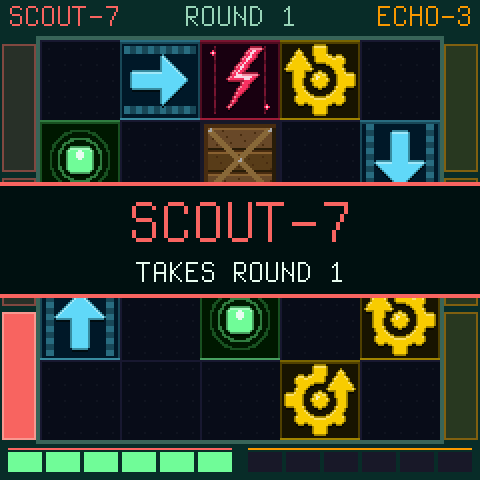
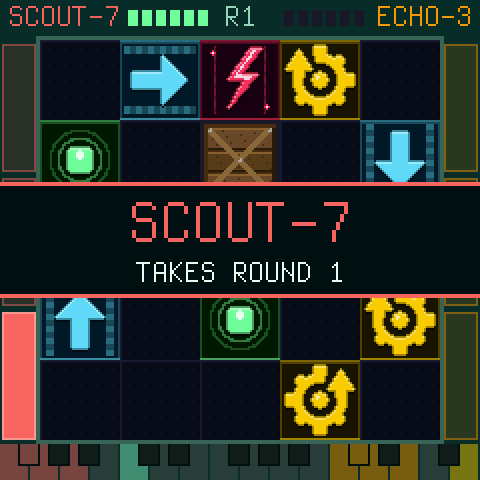
Battle: the strike a white key on, the keys lit on the screen (D42)
Scout-7 strikes on C4 and Echo-3 on G5, a white key free between them and
A3 / E5. The little keyboard at the foot of the fight shows both players'
keys, dim in their colours and lit while held (the FM-1's keys have no
lights); the lives sit in the header beside the names.

Changed region(s): [[0.0, 0.9062, 1.0, 1.0], [0.25, 0.0, 0.5625, 0.0625], [0.5938, 0.0, 0.625, 0.0625]]

diff --git a/firmware/src/rs_battle_screen.c b/firmware/src/rs_battle_screen.c
@@ -3,7 +3,7 @@
  * the countdown, a round won, and the match: the winner, big. Included after rs_screen.c and rs_splash.c. */
 
 static const char *const BT_NAME[2] = {"SCOUT-7", "ECHO-3"};
-static const uint8_t BT_KEY[2][5] = {{0, 1, 2, 4, 6}, {19, 20, 21, 23, 24}};   /* the keys: left, up, down, right, strike */
+static const uint8_t BT_KEY[2][5] = {{0, 1, 2, 4, 7}, {19, 20, 21, 23, 26}};   /* left, up, down, right; strike a white key on */
 static const uint8_t BT_DIR[4] = {RS_W, RS_N, RS_S, RS_E};
 
 static void bt_banner(const char *big, const char *small, uint16_t c)   /* a band over the arena, its words in it */
@@ -29,13 +29,22 @@ static void bt_score(int b, uint32_t wins, uint32_t to_win)   /* a robot's score
     }
 }
 
-static void bt_keymap(int32_t y)                 /* the two players' keys on the little keyboard */
+static void bt_keymap(int32_t y, uint32_t held)  /* the two players' keys on the little keyboard, lit as they are held */
 {
     uint16_t col[27] = {0};
     for (int p = 0; p < 2; p++)
-        for (int k = 0; k < 5; k++)
-            col[BT_KEY[p][k]] = k == 4 ? C_WHITE : p ? C_BOT_B : C_BOT_A;
+        for (int k = 0; k < 5; k++) {
+            uint16_t c = k == 4 ? (p ? C_WARN : C_ACCENT) : p ? C_BOT_B : C_BOT_A;
+            col[BT_KEY[p][k]] = held >> BT_KEY[p][k] & 1u ? mix565(C_WHITE, c, 100) : mix565(c, C_BG, 120);
+        }
     draw_keymap(y, col);
+}
+
+static void bt_life(int32_t x, int b, int32_t hp)   /* a robot's life in the header: six pips */
+{
+    uint16_t c = hp <= 2 ? C_DANGER : hp <= 4 ? C_WARN : C_PULSE;
+    for (int32_t k = 0; k < 6; k++) cv_rect(x + k * 7, 5, 5, 8, k < hp ? c : RGB(0x1a, 0x1a, 0x2e));
+    (void)b;
 }
 
 static void bt_winner(const struct rs_battle *t)
@@ -57,21 +66,26 @@ static void bt_winner(const struct rs_battle *t)
     screen_out();
 }
 
-static void draw_battle(const struct rs_view *v, const struct rs_fx *fx, uint32_t now_ms, uint8_t to_win, uint8_t arena)
+static void draw_battle(const struct rs_view *v, const struct rs_fx *fx, uint32_t now_ms, uint8_t to_win, uint8_t arena,
+                        uint32_t held)
 {
     const struct rs_battle *t = &v->battle;
     int beat = v->loop_len % 3 == 0 && v->loop_len % 4 != 0 ? 3 : 4, b, live = v->playing && t->phase != RS_BT_OFF;
     uint32_t goal = live ? t->to_win : to_win;
     if (live && t->phase == RS_BT_MATCH) { bt_winner(t); return; }
     cv_begin(240, 240, C_BG);
-    /* the header: the names, the round between; down the sides the score bars */
+    /* the header: the names and their lives, the round between; down the sides the score bars */
     cv_text(4, 1, &FONT_S, BT_NAME[0], C_BOT_A);
     cv_text(236 - text_w(&FONT_S, BT_NAME[1]), 1, &FONT_S, BT_NAME[1], C_BOT_B);
+    for (int r = 0; r < 2; r++) {
+        int32_t heat = v->bot[r].heat < 0 ? 0 : v->bot[r].heat > 6 ? 6 : v->bot[r].heat;
+        bt_life(r ? 236 - text_w(&FONT_S, BT_NAME[1]) - 46 : 64, r, live ? 6 - heat : 6);
+    }
     {
-        char r[12] = "ROUND 1";
-        r[6] = (char)('0' + (live ? t->round : 1) % 10u);
+        char r[4] = "R1";
+        r[1] = (char)('0' + (live ? t->round : 1) % 10u);
         int hot = live && t->phase == RS_BT_FIGHT && t->beats >= RS_BT_OVERHEAT;
-        const char *mid = hot ? "OVERHEAT" : live ? r : "VS";
+        const char *mid = hot ? "HOT" : live ? r : "VS";
         cv_text(120 - text_w(&FONT_S, mid) / 2, 1, &FONT_S, mid, hot ? C_DANGER : C_MUTED);
     }
     bt_score(0, live ? t->wins[0] : 0, goal), bt_score(1, live ? t->wins[1] : 0, goal);
@@ -106,14 +120,7 @@ static void draw_battle(const struct rs_view *v, const struct rs_fx *fx, uint32_
     }
     for (b = 0; b < 2; b++)
         if ((int32_t)(fx->boom_until[b] - now_ms) > 0) draw_explosion(BX + v->bot[b].x * CELL, BY + v->bot[b].y * CELL, b);
-    /* the foot: each robot's life (6, less its heat) */
-    for (b = 0; b < 2; b++) {
-        int32_t heat = v->bot[b].heat < 0 ? 0 : v->bot[b].heat > 6 ? 6 : v->bot[b].heat, hp = live ? 6 - heat : 6, x = b ? 124 : 4;
-        uint16_t c = hp <= 2 ? C_DANGER : hp <= 4 ? C_WARN : C_PULSE;
-        for (int32_t k = 0; k < 6; k++) cv_rect(x + k * 19, 226, 17, 10, k < hp ? c : RGB(0x1a, 0x1a, 0x2e));
-        if (b) cv_rect(x, 224, 112, 1, C_BOT_B);
-        else cv_rect(x, 224, 112, 1, C_BOT_A);
-    }
+    bt_keymap(222, held);                       /* the foot: the players' keys, lit as they are held */
     /* what is happening */
     if (!live) {                                /* stopped: how to play, the match's settings */
         static const char *const AR[RS_NARENAS] = {"SAME", "NEXT ONE", "RANDOM"};
@@ -126,15 +133,14 @@ static void draw_battle(const struct rs_view *v, const struct rs_fx *fx, uint32_
         cv_rect(10, 26, 220, 176, RGB(0x05, 0x10, 0x10));
         frame(10, 26, 220, 176, 1, C_MUTED);
         cv_text(120 - text_w(&FONT_L, "BATTLE") / 2, 30, &FONT_L, "BATTLE", C_WHITE);
-        cv_text(18, 66, &FONT_S, "SCOUT-7 F3 F#3 G3 A3", C_BOT_A), cv_text(18, 80, &FONT_S, "  STRIKE / PLAY B3", C_BOT_A);
-        cv_text(18, 96, &FONT_S, "ECHO-3  C5 C#5 D5 E5", C_BOT_B), cv_text(18, 110, &FONT_S, "  STRIKE / PLAY F5", C_BOT_B);
+        cv_text(18, 66, &FONT_S, "SCOUT-7 F3 F#3 G3 A3", C_BOT_A), cv_text(18, 80, &FONT_S, "  STRIKE / PLAY C4", C_ACCENT);
+        cv_text(18, 96, &FONT_S, "ECHO-3  C5 C#5 D5 E5", C_BOT_B), cv_text(18, 110, &FONT_S, "  STRIKE / PLAY G5", C_WARN);
         cv_rect(18, 126, 204, 1, mix565(C_MUTED, C_BG, 90));
         cv_text(18, 132, &FONT_S, "K2 ROUNDS TO WIN", C_MUTED), cv_text(222 - text_w(&FONT_S, ro), 132, &FONT_S, ro, C_WHITE);
         cv_text(18, 146, &FONT_S, "K3 ARENA", C_MUTED), cv_text(222 - text_w(&FONT_S, arena_name), 146, &FONT_S, arena_name, C_WHITE);
         cv_text(18, 160, &FONT_S, "K4 EACH ROUND", C_MUTED);
         cv_text(222 - text_w(&FONT_S, AR[arena % RS_NARENAS]), 160, &FONT_S, AR[arena % RS_NARENAS], C_WHITE);
         cv_text(120 - text_w(&FONT_S, "PLAY: FIGHT") / 2, 182, &FONT_S, "PLAY: FIGHT", C_ACCENT);
-        bt_keymap(204);
     } else if (t->phase == RS_BT_READY) {       /* the countdown: the round, then 4 3 2 1 */
         char r[12] = "ROUND 1", d[2] = "4";
         r[6] = (char)('0' + t->round % 10u), d[0] = (char)('0' + (t->count < 5 ? t->count : 4));

diff --git a/tests/roboseq/screens.c b/tests/roboseq/screens.c
@@ -97,24 +97,24 @@ int main(void)
     draw_mix(LEVEL, 6, 40), shot("mix");
     {                                           /* the battle mode (D42): how to play, the countdown, a strike, a round, the winner */
         rs_default(&g), g.engine = RS_ENGINE_BAND, view_ui(), v.battle = g.battle;
-        draw_battle(&v, &fx, 0, 3, RS_ARENA_NEXT), shot("battle");
+        draw_battle(&v, &fx, 0, 3, RS_ARENA_NEXT, 0), shot("battle");
         rs_start(&g), rs_battle_start(&g, 3, RS_ARENA_SAME);
         while (g.battle.count > 2) rs_tick(&g, &o);
         view_ui(), v.battle = g.battle;
-        draw_battle(&v, &fx, 0, 3, RS_ARENA_NEXT), shot("battle-countdown");
+        draw_battle(&v, &fx, 0, 3, RS_ARENA_NEXT, 0), shot("battle-countdown");
         while (g.battle.phase == RS_BT_READY) rs_tick(&g, &o);
         g.bot[0].x = 1, g.bot[0].y = 2, g.bot[0].dir = RS_E, g.bot[1].x = 2, g.bot[1].y = 2, g.bot[1].dir = RS_W, g.bot[1].heat = 2;
         rs_battle_keys(&g, 0, 0, 1, 0), rs_battle_keys(&g, 1, RS_N + 1, 0, 0);
         do rs_tick(&g, &o); while (!(o.move_tick && g.step % 4 == 0));
         view_ui(), v.battle = g.battle, fx.clash_until[1] = 100;
-        draw_battle(&v, &fx, 0, 3, RS_ARENA_NEXT), shot("battle-strike");
+        draw_battle(&v, &fx, 0, 3, RS_ARENA_NEXT, 1u << 7 | 1u << 20), shot("battle-strike");   /* (C4 and C#5 held) */
         memset(&fx, 0, sizeof fx);
         g.battle.phase = RS_BT_ROUND, g.battle.winner = 0, g.battle.wins[0] = 1, g.bot[1].dying = 1, g.bot[1].heat = 6;
         view_ui(), v.battle = g.battle;
-        draw_battle(&v, &fx, 0, 3, RS_ARENA_NEXT), shot("battle-round");
+        draw_battle(&v, &fx, 0, 3, RS_ARENA_NEXT, 0), shot("battle-round");
         g.battle.phase = RS_BT_MATCH, g.battle.winner = 1, g.battle.wins[0] = 1, g.battle.wins[1] = 3;
         view_ui(), v.battle = g.battle;
-        draw_battle(&v, &fx, 0, 3, RS_ARENA_NEXT), shot("battle-winner");
+        draw_battle(&v, &fx, 0, 3, RS_ARENA_NEXT, 0), shot("battle-winner");
     }
     return 0;
 }

diff --git a/firmware/src/roboseq.c b/firmware/src/roboseq.c
@@ -395,8 +395,8 @@ static void keys_init(void)
     }
 }
 
-/* ---- the battle mode (D42): two players on the keyboard, a cluster each at its ends, as WASD and F: Scout-7's
- * F3 F#3 G3 A3 (left, up, down, right) and B3 (strike), Echo-3's C5 C#5 D5 E5 and F5. A way held is a step on every
+/* ---- the battle mode (D42): two players on the keyboard, a cluster each at its ends, as WASD, a white key free, and
+ * the strike: Scout-7's F3 F#3 G3 A3 (left, up, down, right) and C4, Echo-3's C5 C#5 D5 E5 and G5. A way held is a step on every
  * beat (the last one pressed, of those held); the strike held or tapped strikes on the next beat with the other in
  * reach, and out of reach it plays the lead: a tone of the chord where the robot stands, on up the chord as it is
  * pressed again on one tile (rs_battle_lead_note), held as long as the key is. */
@@ -408,7 +408,9 @@ static uint16_t bt_bpm_was;
 
 static int battle_keys(uint32_t held, uint32_t down)
 {
-    int changed = 0;
+    static uint32_t was;
+    int changed = held != was;                          /* (any key down or up: the keyboard on the screen lights it) */
+    was = held;
     for (int p = 0; p < 2; p++) {
         uint8_t hold = 0;
         for (int k = 0; k < 4; k++)
@@ -787,7 +789,7 @@ static void app_main(void)
             else if (page == PAGE_FX) draw_mix(mix.level, mix_cursor, colour_amt);
             else if (page == PAGE_ENV) draw_editor(v, &game, env_cx, env_cy, (fm1_ms / 300u) & 1u, env_edited);
             else if (page == PAGE_BOARDS) draw_boards(&game, (fm1_ms / 300u) & 1u, env_edited);
-            else if (page == PAGE_BATTLE) draw_battle(v, &fx, fm1_ms, bt_to_win, bt_arena);
+            else if (page == PAGE_BATTLE) draw_battle(v, &fx, fm1_ms, bt_to_win, bt_arena, notes);
             else draw_board(v, &fx, &ui, fm1_ms);
             due = fx_due(&fx, fm1_ms);
         }

diff --git a/docs/roboseq/CONTROLS.md b/docs/roboseq/CONTROLS.md
@@ -68,13 +68,14 @@ as everywhere.
 
 ## BATTLE (GLO's white key 16, D42)
 
-Two players, a robot each, on the music's beat. The keyboard is theirs: no register, no steering, no lead on REC.
+Two players, a robot each, on the music's beat. The keyboard is theirs: no register, no steering, no lead on REC. The
+little keyboard at the foot of the screen shows their keys, each lit while it is held.
 
 | Control | Does |
 |---|---|
 | F3 F#3 G3 A3 | Scout-7: left, up, down, right. Held, a step that way on every beat (the last one pressed, of those held) |
-| B3 | Scout-7's fifth key: with Echo-3 in reach (a tile on the way it holds or faces, or two with the tile between open), it strikes on the next beat; out of reach it plays the lead now, a tone of the chord where Scout-7 stands, on up the chord when pressed again on one tile, held as long as the key |
-| C5 C#5 D5 E5 / F5 | the same for Echo-3 |
+| C4 | Scout-7's strike (a white key free between it and A3): with Echo-3 in reach (a tile on the way it holds or faces, or two with the tile between open), it strikes on the next beat; out of reach it plays the lead now, a tone of the chord where Scout-7 stands, on up the chord when pressed again on one tile, held as long as the key |
+| C5 C#5 D5 E5 / G5 | the same for Echo-3 (F5 free) |
 | PLAY | a match: the round, then 4 3 2 1 FIGHT on the beats; in a fight it stops (C1); on the winner, another match |
 | KNOB1 | the tempo (the battle starts at 112 BPM when it was slower; leaving brings the old back) |
 | KNOB2 | the rounds to win, 1 to 9 (before a match), a segment each in the score bars |

diff --git a/docs/roboseq/DECISIONS.md b/docs/roboseq/DECISIONS.md
@@ -756,3 +756,9 @@ it); rounds, then "<robot> wins" with the winning robot's picture. Along the way
 match on each of the six arenas. Every match ends: 24 rounds of 46 beats on average, 12 hits of 15 strikes, and no
 one hit two beats running.
 
+**D42, later the same day: the keys.** The product owner, on the screens: a white key free between WASD and the
+strike, and the keys lit on the keyboard. So Scout-7 strikes on C4 (B3 free) and Echo-3 on G5 (F5 free). The little
+keyboard is now at the foot of the fight too: each player's keys dim in its colour (the strike in the robot's
+accent), lit while held. The FM-1's keys have no lights, so the screen is where they light. The lives moved into the
+header beside the names.
+
